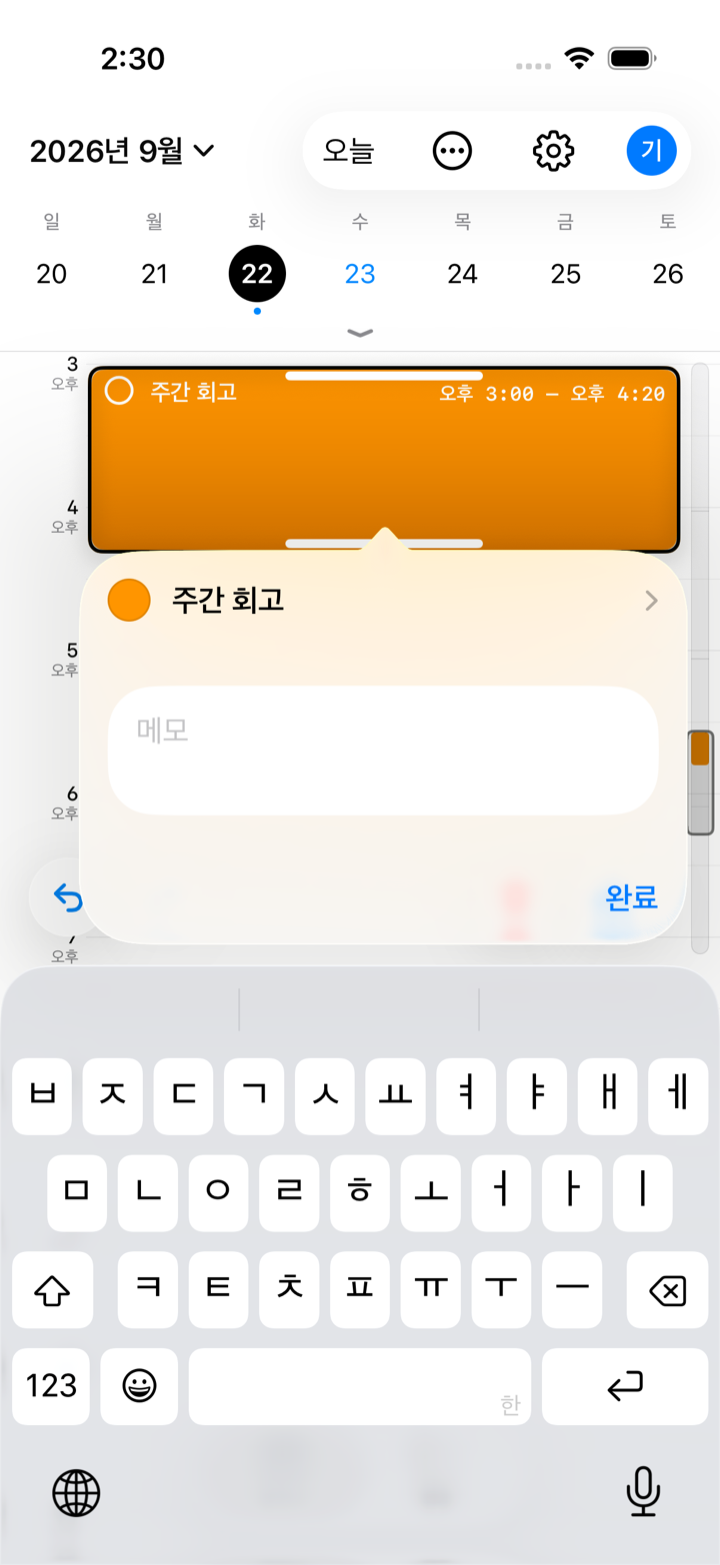
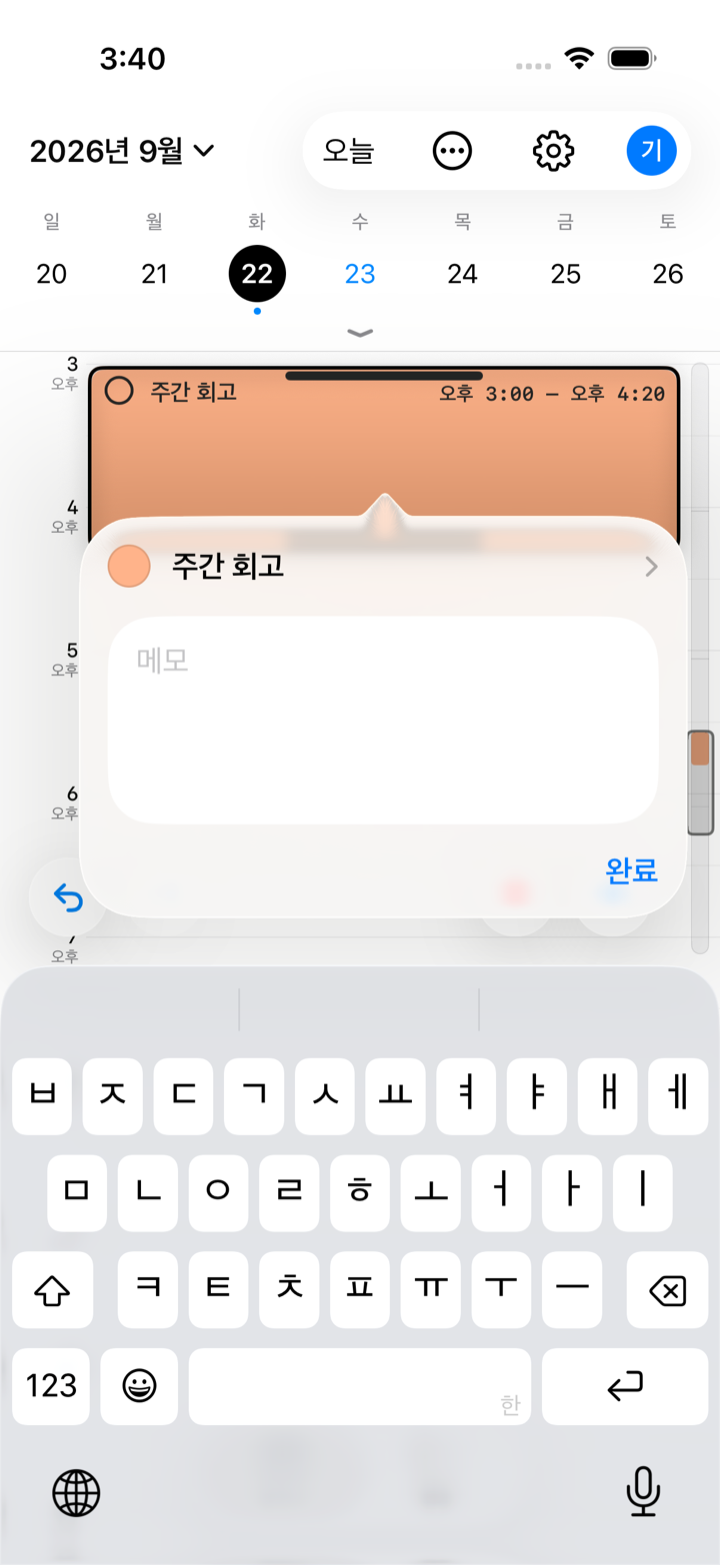
improve: blog — 메모 칸이 판을 채우는 절 추가
판에서 아낀 높이를 메모가 쓰게 한 변경(줄 간격 16pt, 메모 4–7줄)을 같은 절에
덧붙이고 캡처를 그 상태로 갈았다.

Claude-Session: https://claude.ai/code/session_01XvG2ybDs5aQ3nYVyucPk2w

diff --git a/src/content/blog/ko/2026-09-20-planner-block-menu.md b/src/content/blog/ko/2026-09-20-planner-block-menu.md
@@ -727,6 +727,11 @@ UI 회귀 테스트를 새로 쓰면서 옛 엔진으로 한 번 돌려, 두 블
 
 ![메모를 치는 동안 제목 줄·메모·`완료` 가 전부 키보드 위에 남는다. 블록이 위로 올라와 화살표도 제 블록에 붙어 있다](/blog/planner-block-menu/popover-above-keyboard.png)
 
+자리를 그렇게 아껴 놓고 보니 판 안이 비어 있었다. 판 높이는 키보드 위에 들어갈 만큼으로 정해져
+있으니, 그 안을 여백이 아니라 메모가 쓰는 게 맞다. 줄 간격을 시트(36pt)보다 좁은 16pt 로 내리고
+아낀 높이를 메모 칸에 줘서, 메모는 처음부터 넉 줄로 열리고 일곱 줄까지 늘어난다. 판 전체 높이는
+거의 그대로라 키보드 위 자리 계산은 건드릴 필요가 없었다.
+
 ### 잰 값을 되먹이면 안 된다
 
 판 높이는 상수로 박지 않고 팝오버가 스스로 재서 알려 주게 했는데, 처음엔 판이 화면 꼭대기까지

diff --git a/src/content/blog/en/2026-09-20-planner-block-menu.md b/src/content/blog/en/2026-09-20-planner-block-menu.md
@@ -716,6 +716,11 @@ lands on its block.
 
 ![While typing, the title row, the note and Done all stay above the keyboard, with the arrow still on the block](/blog/planner-block-menu/popover-above-keyboard.png)
 
+Having fought for that space, the plate turned out to be mostly empty. Its height is fixed by what
+fits above the keyboard, so the note field should be spending it, not the gaps. Row spacing dropped
+from the sheet's 36pt to 16pt and the note took the difference: it opens four lines tall and grows
+to seven. The plate's total height barely moved, so none of the keyboard math changed.
+
 ### Do not feed a measured height back in
 
 The plate reports its own height rather than carrying a hardcoded constant — and at first that
